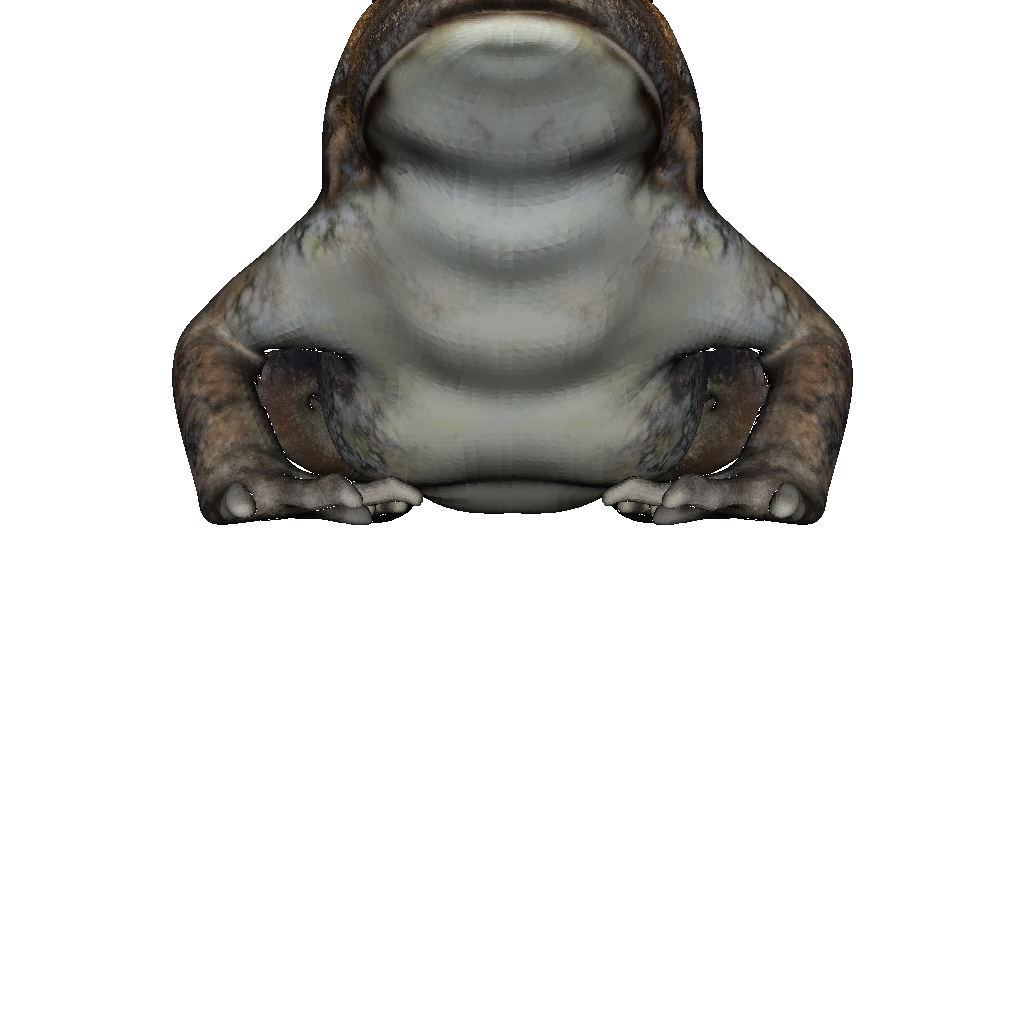
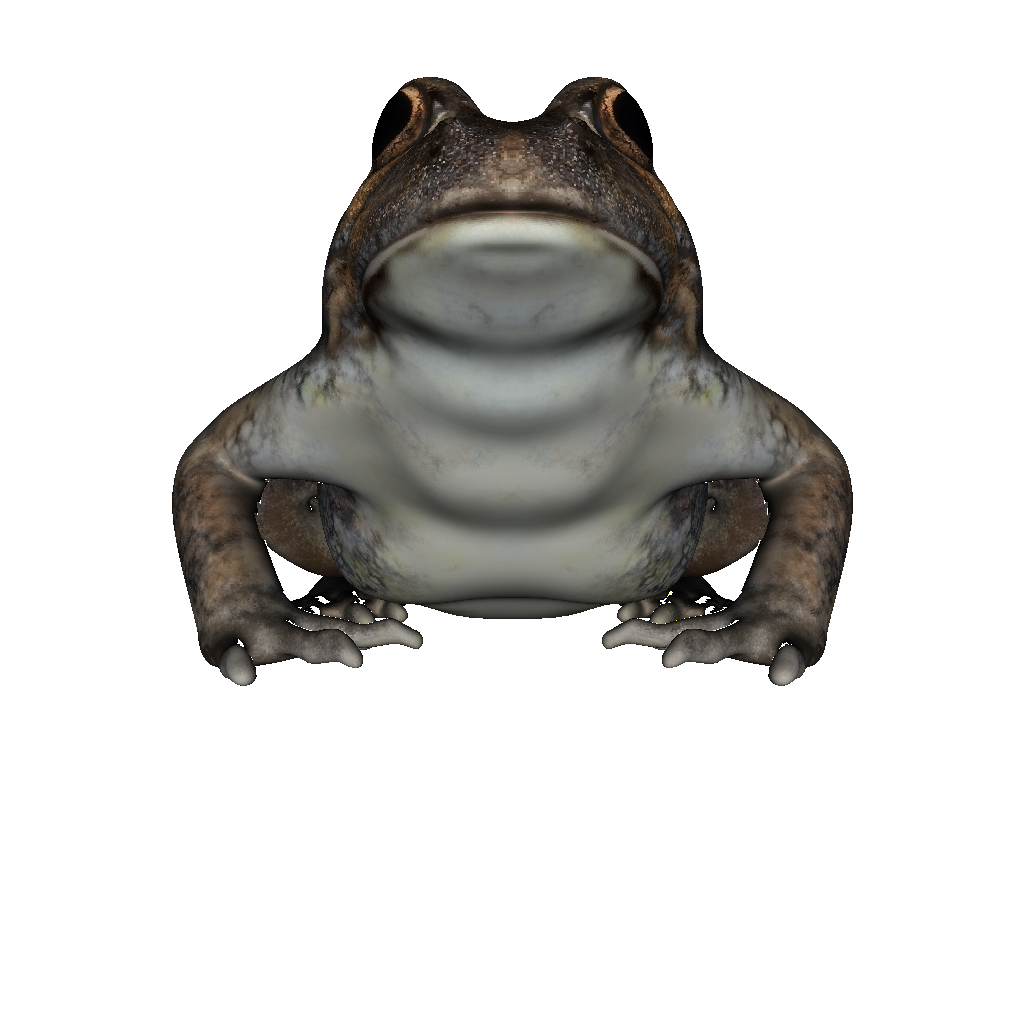
fix guoro for multiple polygons

Changed region(s): [[0.1562, 0.0, 0.8438, 0.6875]]

diff --git a/main.py b/main.py
@@ -35,13 +35,13 @@ def draw_object(image, width : int, height : int, scale_image : int, scale_model
         u = ax*X/(Z+tz) + u0
         v = ay*Y/(Z+tz) + v0
         pixel_vertices.append((u, v, 1))
-
+     
     for face_idx, face in enumerate(faces):
         dots = tuple(transformed_vertices[i] for i in face)
     
         flat_dots = tuple(pixel_vertices[i] for i in face)
 
-        normal1, normal2, normal3 = vertices_normals[face[0]], vertices_normals[face[1]], vertices_normals[face[2]]
+        normals = [vertices_normals[i] for i in face]
 
         tex_idx_face = texture_faces[face_idx]
         textures = tuple(vertices_texture[i] for i in tex_idx_face)
@@ -52,17 +52,18 @@ def draw_object(image, width : int, height : int, scale_image : int, scale_model
         # light_dir = np.array([avg_x, avg_y, avg_z])
         light_dir = np.array([0, 0, 1])
 
-        intensivity_vector = compute_light_intensivity(normal1, normal2, normal3, light_dir)
+        # intensivity_vector = compute_light_intensivity(normal1, normal2, normal3, light_dir)
 
-        draw_polygon(image, texture_img, z_buffer, dots, flat_dots, intensivity_vector, light_dir, textures)
+        draw_polygon(image, texture_img, z_buffer, dots, flat_dots, normals, light_dir, textures)
 
     return image
 
 def main():
     obj_filename = "models/12268_banjofrog_v1_L3.obj"
+    texture_name = "textures/12268_banjofrog_diffuse.jpg"
     # obj_filename = "models/model_1.obj"
     # texture_name = "textures/bunny-atlas.jpg"
-    texture_name = "textures/12268_banjofrog_diffuse.jpg"
+   
     # texture_name = "dfgbn"
     try:
         texture_img = Image.open(texture_name).convert("RGB")
@@ -78,7 +79,7 @@ def main():
 
     axis = [0, 1, 1]
     angle = 180
-    transfer = [0, -0.1, 4]
+    transfer = [0, -1, 4]
     z_buffer = np.full((height, width), np.inf)
 
     image = np.full((height, width, 3), 255, dtype = np.uint8)

diff --git a/draw_polygons.py b/draw_polygons.py
@@ -1,9 +1,9 @@
 import numpy as np
 from drawing_triangle import draw_triangle
-from vertex_and_matrices.compute_vectors import compute_normal
+from vertex_and_matrices.compute_vectors import compute_light_intensivity, compute_normal
 
 
-def draw_polygon(image, texture_img, z_buffer, dots, flat_dots, intensive_vector, light_dir, textures):
+def draw_polygon(image, texture_img, z_buffer, dots, flat_dots, normals, light_dir, textures):
     
     normal = compute_normal(
         dots[0][0], dots[0][1], dots[0][2], 
@@ -17,6 +17,7 @@ def draw_polygon(image, texture_img, z_buffer, dots, flat_dots, intensive_vector
         return 
 
     if len(dots)==3:
+        intensive_vector = compute_light_intensivity(normals[0], normals[1], normals[2], light_dir)
         draw_triangle(image, texture_img, z_buffer, dots, flat_dots, intensive_vector, light_dir, textures)
     
     else:
@@ -24,5 +25,7 @@ def draw_polygon(image, texture_img, z_buffer, dots, flat_dots, intensive_vector
             dots_ = dots[0], dots[i], dots[i+1]
             flat_dots_ = flat_dots[0], flat_dots[i], flat_dots[i+1]
             textures_ = textures[0], textures[i], textures[i+1]
+            intensive_vector = compute_light_intensivity(normals[0], normals[i], normals[i+1], light_dir)
+            
             draw_triangle(image, texture_img, z_buffer, dots_, flat_dots_, intensive_vector, light_dir, textures_)
     
